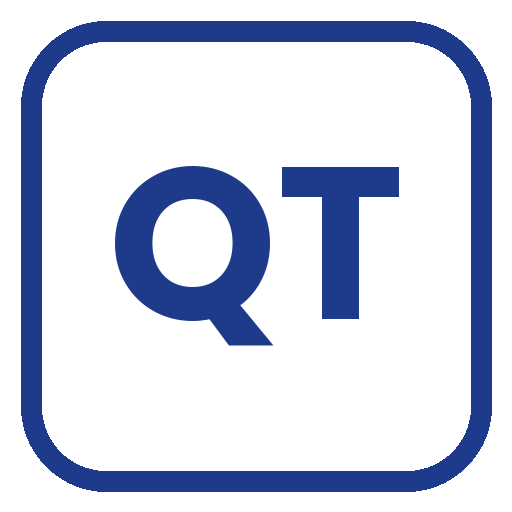
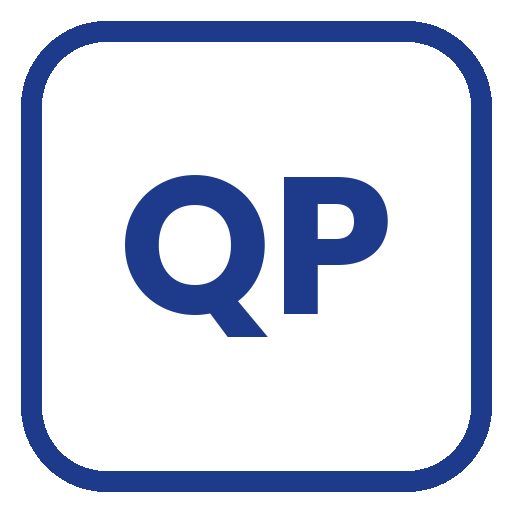
Add files via upload

Changed region(s): [[0.2188, 0.3125, 0.7812, 0.6562], [0.4375, 0.625, 0.5312, 0.6875], [0.4688, 0.5625, 0.5, 0.625]]

diff --git a/index.html b/index.html
@@ -819,17 +819,114 @@ function showBookingSuccess(name, mobile, date, slot) {
 </main>
 <footer>
   <p>© 2026 <span>Quickfix Mumbai</span> · Home Appliance & Electronics Repair</p>
-  <div class="footer-links">
-    <a href="refrigerator-repair.html">Refrigerator Repair</a>
-    <a href="washing-machine-repair.html">Washing Machine</a>
-    <a href="microwave-repair.html">Microwave</a>
-    <a href="dishwasher-repair.html">Dishwasher</a>
-    <a href="dryer-repair.html">Dryer</a>
-    <a href="air-dresser-repair.html">Air Dresser</a>
-    <a href="amc-service.html">AMC</a>
-    <a href="inquiry.html">Inquiry & Contact</a>
+
+  <div style="max-width: 1100px; margin: 20px auto 0; text-align: left; display: grid; grid-template-columns: repeat(auto-fit, minmax(200px, 1fr)); gap: 20px; padding: 0 20px;">
+    <div>
+      <div style="font-weight:700; color:#fff; font-size:0.82rem; text-transform:uppercase; letter-spacing:1px; margin-bottom:10px;">Our Services</div>
+      <div class="footer-links" style="flex-direction:column; align-items:flex-start; gap:6px;">
+        <a href="refrigerator-repair.html">Refrigerator Repair</a>
+        <a href="washing-machine-repair.html">Washing Machine</a>
+        <a href="microwave-repair.html">Microwave</a>
+        <a href="dishwasher-repair.html">Dishwasher</a>
+        <a href="dryer-repair.html">Dryer</a>
+        <a href="air-dresser-repair.html">Air Dresser</a>
+        <a href="amc-service.html">AMC</a>
+        <a href="inquiry.html">Inquiry & Contact</a>
+      </div>
+    </div>
+
+    <div>
+      <div style="font-weight:700; color:#fff; font-size:0.82rem; text-transform:uppercase; letter-spacing:1px; margin-bottom:10px;">Repair Guides</div>
+      <div class="footer-links" style="flex-direction:column; align-items:flex-start; gap:6px; max-height: 260px; overflow-y:auto;">
+    <a href="air-dresser-not-steaming.html">Air Dresser Not Steaming</a>
+    <a href="bosch-dishwasher-not-cleaning.html">Bosch Dishwasher Not Cleaning</a>
+    <a href="bosch-washing-machine-e18-error.html">Bosch Washing Machine E18 Error</a>
+    <a href="cloth-dryer-not-heating.html">Cloth Dryer Not Heating</a>
+    <a href="dishwasher-not-draining.html">Dishwasher Not Draining</a>
+    <a href="godrej-refrigerator-not-cooling.html">Godrej Refrigerator Not Cooling</a>
+    <a href="godrej-washing-machine-door-not-locking.html">Godrej Washing Machine Door Not Locking</a>
+    <a href="ifb-dishwasher-not-drying.html">IFB Dishwasher Not Drying</a>
+    <a href="ifb-washing-machine-not-spinning.html">IFB Washing Machine Not Spinning</a>
+    <a href="lg-microwave-turntable-not-rotating.html">LG Microwave Turntable Not Rotating</a>
+    <a href="lg-refrigerator-not-cooling.html">LG Refrigerator Not Cooling</a>
+    <a href="lg-styler-not-drying.html">LG Styler Not Drying</a>
+    <a href="lg-washing-machine-oe-error.html">LG Washing Machine OE Error</a>
+    <a href="microwave-magnetron-emission-recovery.html">Microwave Magnetron Emission Recovery</a>
+    <a href="microwave-sparking-inside.html">Microwave Sparking Inside</a>
+    <a href="samsung-fridge-pcb-board-fault.html">Samsung Fridge PCB Board Fault</a>
+    <a href="samsung-microwave-not-heating.html">Samsung Microwave Not Heating</a>
+    <a href="samsung-washing-machine-4e-error.html">Samsung Washing Machine 4e Error</a>
+    <a href="whirlpool-dryer-drum-not-spinning.html">Whirlpool Dryer Drum Not Spinning</a>
+    <a href="whirlpool-refrigerator-water-leaking.html">Whirlpool Refrigerator Water Leaking</a>
+    <a href="whirlpool-washing-machine-not-draining.html">Whirlpool Washing Machine Not Draining</a>
+      </div>
+    </div>
+
+    <div>
+      <div style="font-weight:700; color:#fff; font-size:0.82rem; text-transform:uppercase; letter-spacing:1px; margin-bottom:10px;">Self-Care Tips</div>
+      <div class="footer-links" style="flex-direction:column; align-items:flex-start; gap:6px;">
+    <a href="air-dresser-maintenance-tips-mumbai.html">Air Dresser Maintenance Tips Mumbai</a>
+    <a href="cloth-dryer-maintenance-tips-mumbai.html">Cloth Dryer Maintenance Tips Mumbai</a>
+    <a href="dishwasher-maintenance-tips-mumbai.html">Dishwasher Maintenance Tips Mumbai</a>
+    <a href="microwave-maintenance-tips-mumbai.html">Microwave Maintenance Tips Mumbai</a>
+    <a href="refrigerator-maintenance-tips-mumbai.html">Refrigerator Maintenance Tips Mumbai</a>
+    <a href="washing-machine-maintenance-tips-mumbai.html">Washing Machine Maintenance Tips Mumbai</a>
+      </div>
+    </div>
+
+    <div>
+      <div style="font-weight:700; color:#fff; font-size:0.82rem; text-transform:uppercase; letter-spacing:1px; margin-bottom:10px;">Service Areas</div>
+      <div class="footer-links" style="flex-direction:column; align-items:flex-start; gap:6px; max-height: 260px; overflow-y:auto;">
+    <a href="all-mumbai-appliance-repair.html">All Mumbai</a>
+    <a href="altamount-road-appliance-repair.html">Altamount Road</a>
+    <a href="andheri-appliance-repair.html">Andheri</a>
+    <a href="bandra-west-appliance-repair.html">Bandra West</a>
+    <a href="bhandup-appliance-repair.html">Bhandup</a>
+    <a href="bkc-appliance-repair.html">Bkc</a>
+    <a href="borivali-appliance-repair.html">Borivali</a>
+    <a href="breach-candy-appliance-repair.html">Breach Candy</a>
+    <a href="chembur-appliance-repair.html">Chembur</a>
+    <a href="chuna-bhatti-appliance-repair.html">Chuna Bhatti</a>
+    <a href="churchgate-appliance-repair.html">Churchgate</a>
+    <a href="colaba-appliance-repair.html">Colaba</a>
+    <a href="cuffe-parade-appliance-repair.html">Cuffe Parade</a>
+    <a href="dahisar-appliance-repair.html">Dahisar</a>
+    <a href="ghatkopar-appliance-repair.html">Ghatkopar</a>
+    <a href="goregaon-appliance-repair.html">Goregaon</a>
+    <a href="hiranandani-appliance-repair.html">Hiranandani</a>
+    <a href="jb-nagar-appliance-repair.html">Jb Nagar</a>
+    <a href="jogeshwari-appliance-repair.html">Jogeshwari</a>
+    <a href="juhu-appliance-repair.html">Juhu</a>
+    <a href="kalina-appliance-repair.html">Kalina</a>
+    <a href="kandivali-appliance-repair.html">Kandivali</a>
+    <a href="khar-appliance-repair.html">Khar</a>
+    <a href="kurla-appliance-repair.html">Kurla</a>
+    <a href="lower-parel-appliance-repair.html">Lower Parel</a>
+    <a href="mahalaxmi-appliance-repair.html">Mahalaxmi</a>
+    <a href="mahim-appliance-repair.html">Mahim</a>
+    <a href="malabar-hill-appliance-repair.html">Malabar Hill</a>
+    <a href="malad-appliance-repair.html">Malad</a>
+    <a href="matunga-appliance-repair.html">Matunga</a>
+    <a href="mulund-appliance-repair.html">Mulund</a>
+    <a href="mumbai-central-appliance-repair.html">Mumbai Central</a>
+    <a href="nahur-appliance-repair.html">Nahur</a>
+    <a href="powai-appliance-repair.html">Powai</a>
+    <a href="sakinaka-appliance-repair.html">Sakinaka</a>
+    <a href="santacruz-appliance-repair.html">Santacruz</a>
+    <a href="shivaji-nagar-appliance-repair.html">Shivaji Nagar</a>
+    <a href="sion-appliance-repair.html">Sion</a>
+    <a href="suburban-appliance-repair.html">Suburban</a>
+    <a href="tilak-nagar-appliance-repair.html">Tilak Nagar</a>
+    <a href="versova-appliance-repair.html">Versova</a>
+    <a href="vidyavihar-appliance-repair.html">Vidyavihar</a>
+    <a href="vikhroli-appliance-repair.html">Vikhroli</a>
+    <a href="vile-parle-appliance-repair.html">Vile Parle</a>
+    <a href="worli-appliance-repair.html">Worli</a>
+      </div>
+    </div>
   </div>
-  <p>Serving Bandra West, Andheri, Borivali, Malad, Jogeshwari & all Western Mumbai</p>
+
+  <p style="margin-top:20px;">Serving Bandra West, Andheri, Borivali, Malad, Jogeshwari & all Western Mumbai</p>
 </footer>
 
 <a href="tel:+919819832282" class="float-call" title="Call Now" aria-label="Call Quickfix Mumbai Support">📞</a>

diff --git a/join-our-team.html b/join-our-team.html
@@ -107,7 +107,7 @@ footer span { color: var(--white); }
   <div style="display:flex; align-items:center; gap:12px;">
     <span style="font-size: 1.8rem;">📲</span>
     <div>
-      <div style="font-weight:700; color: var(--blue); font-size: 0.95rem;">Install Quickfix Technician (QT)</div>
+      <div style="font-weight:700; color: var(--blue); font-size: 0.95rem;">Install Quickfix Partner (QP)</div>
       <div style="font-size: 0.8rem; color: var(--grey-dark);">Get job updates faster — no Play Store needed, installs straight from this page</div>
     </div>
   </div>
